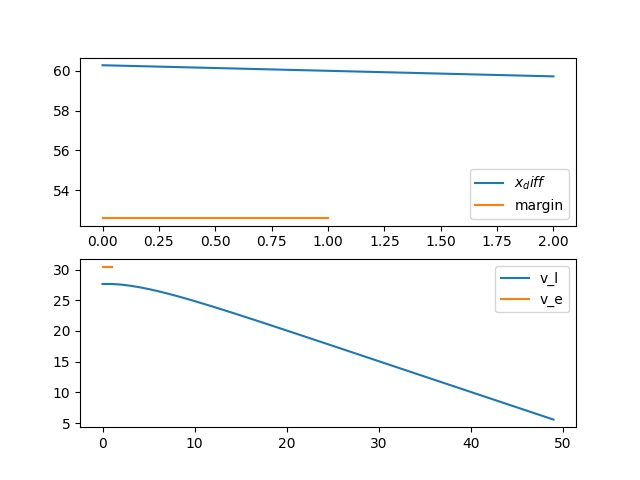
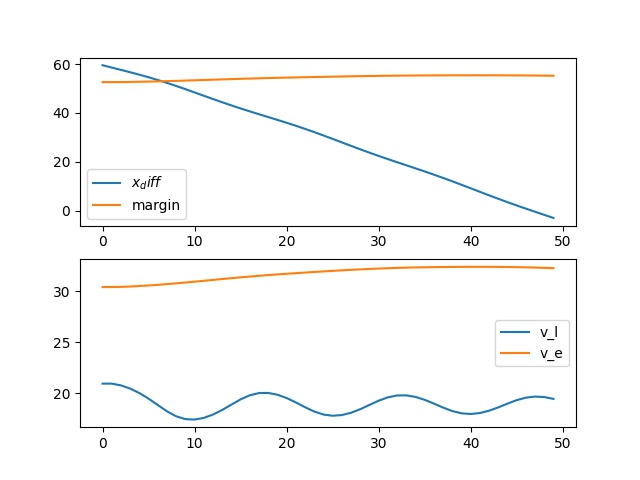
add the sin control term

diff --git a/examples/ACC/acc_LP.py b/examples/ACC/acc_LP.py
@@ -41,7 +41,7 @@ class ACC:
 
 		x_l_new = x_l + v_l*dt
 		v_l_new = v_l + r_l*dt
-		r_l_new = r_l + (-2*r_l-10-self.mu*v_l**2)*dt # directly write a_l = -5 into the dynamics
+		r_l_new = r_l + (-2*r_l-20*np.sin(v_l)-self.mu*v_l**2)*dt # directly write a_l = -5 into the dynamics
 		x_e_new = x_e + v_e*dt
 		v_e_new = v_e + r_e*dt
 		r_e_new = r_e + (-2*r_e+2*a_e-self.mu*v_e**2)*dt 
@@ -114,7 +114,7 @@ def SVG(control_param, view=False):
 		fs = np.array([
 			[1,dt,0,0,0,0],
 			[0,1,dt,0,0,0],
-			[0,-2*env.mu*v_l*dt,1-2*dt,0,0,0],
+			[0,-20*np.cos(v_l)*dt-2*env.mu*v_l*dt,1-2*dt,0,0,0],
 			[0,0,0,1,dt,0],
 			[0,0,0,0,1,dt],
 			[0,0,0,0,-2*env.mu*v_e*dt,1-2*dt]		
@@ -154,7 +154,7 @@ if __name__ == '__main__':
 	for i in range(100):
 		vtheta, final_state = SVG(control_param)
 		print(vtheta.shape, vtheta)
-		control_param += 1e-7 * np.clip(vtheta, -1e7, 1e7)
+		control_param += 1e-8 * np.clip(vtheta, -1e7, 1e7)
 		# if i > 50:
 		# 	control_param += 1e-4 * np.clip(vtheta, -1e4, 1e4)
 	print(final_state, vtheta, control_param)
